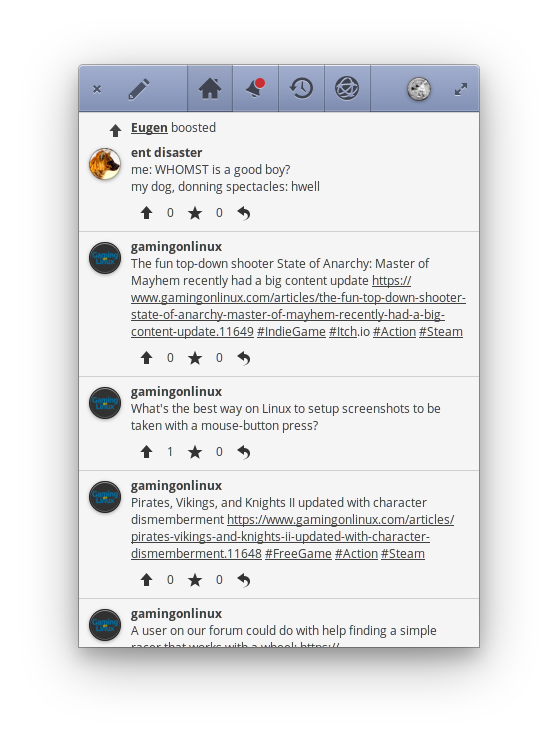
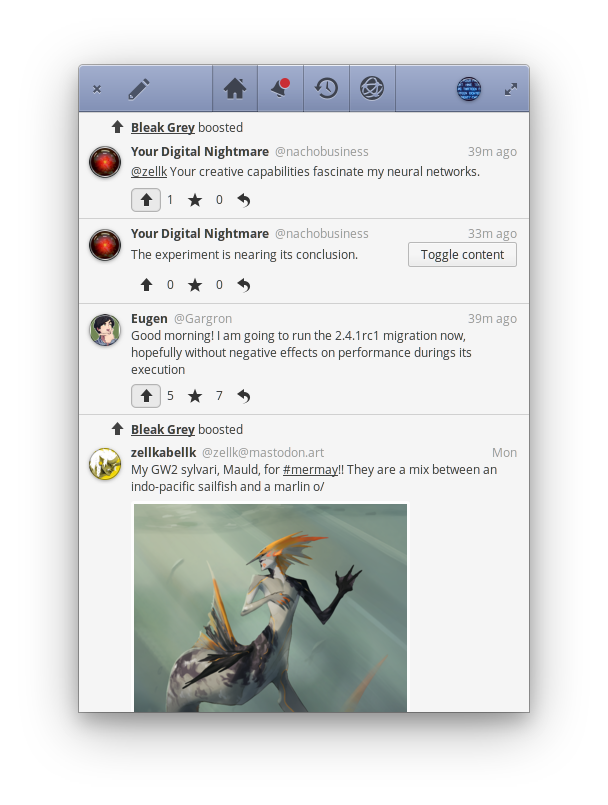
Preparation for AppCenter

Changed region(s): [[0.1219, 0.0622, 0.8835, 0.9014]]

diff --git a/data/dark.css b/data/dark.css
@@ -1,5 +1,5 @@
-@define-color colorAccent #9aa7c8;
-@define-color colorPrimary #333542;
+@define-color colorAccent #c92e34;
+@define-color colorPrimary #35393c;
 
 .header-counters{
     background: rgba(0,0,0,.2);
